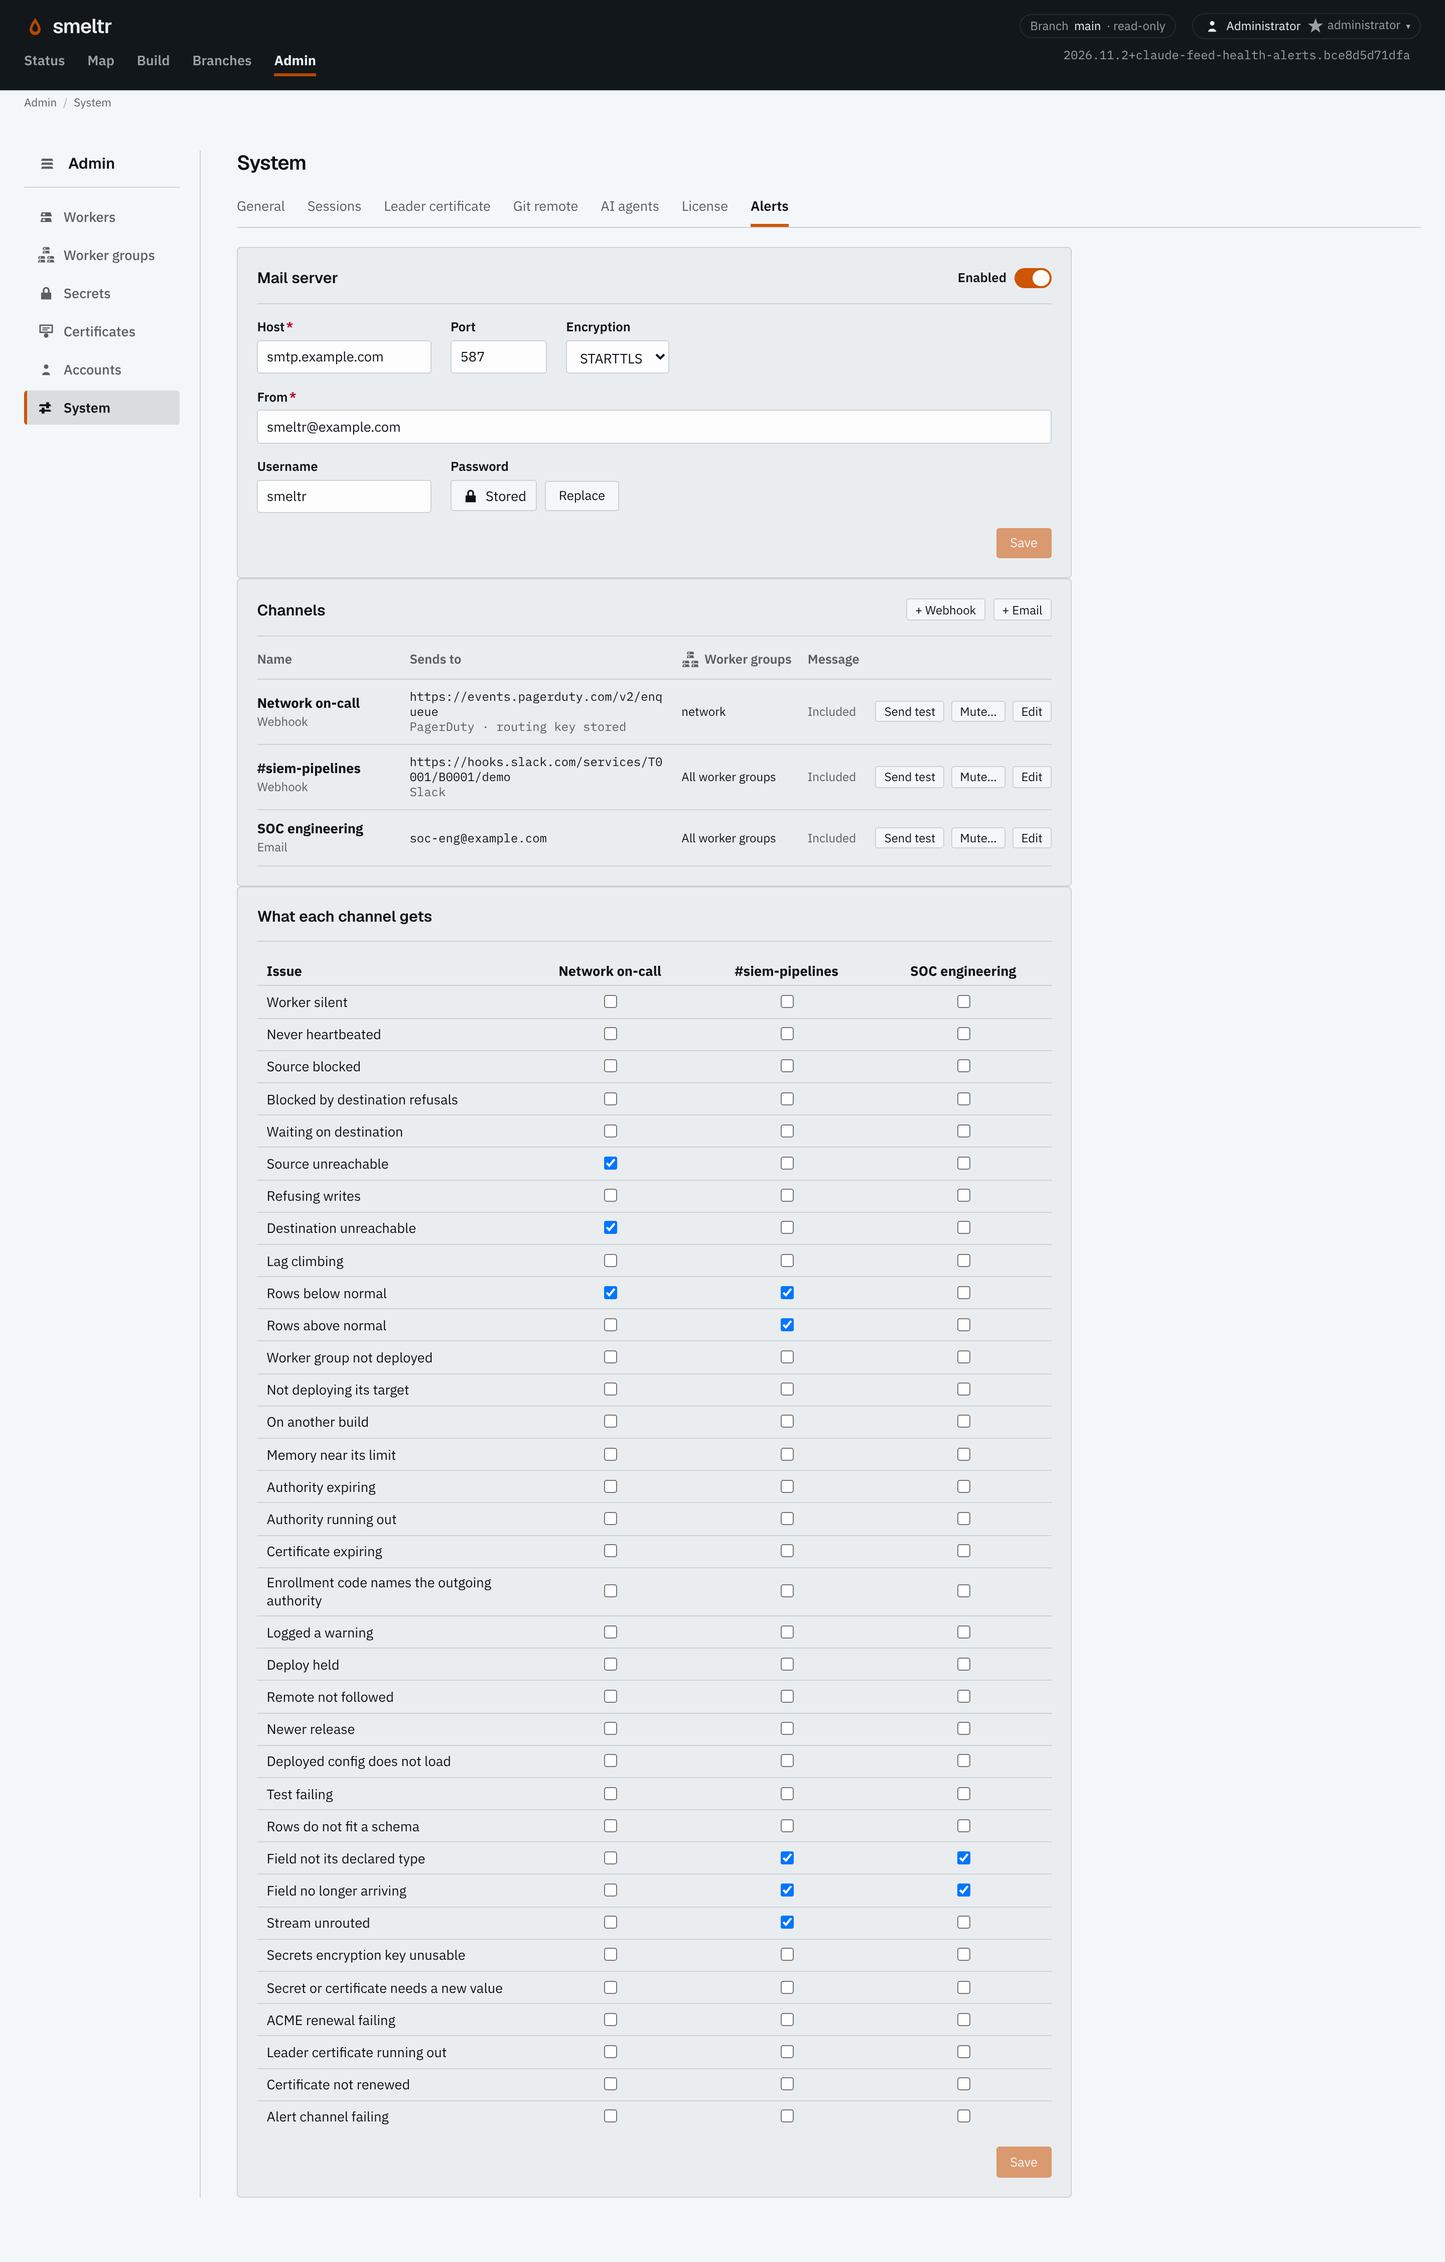
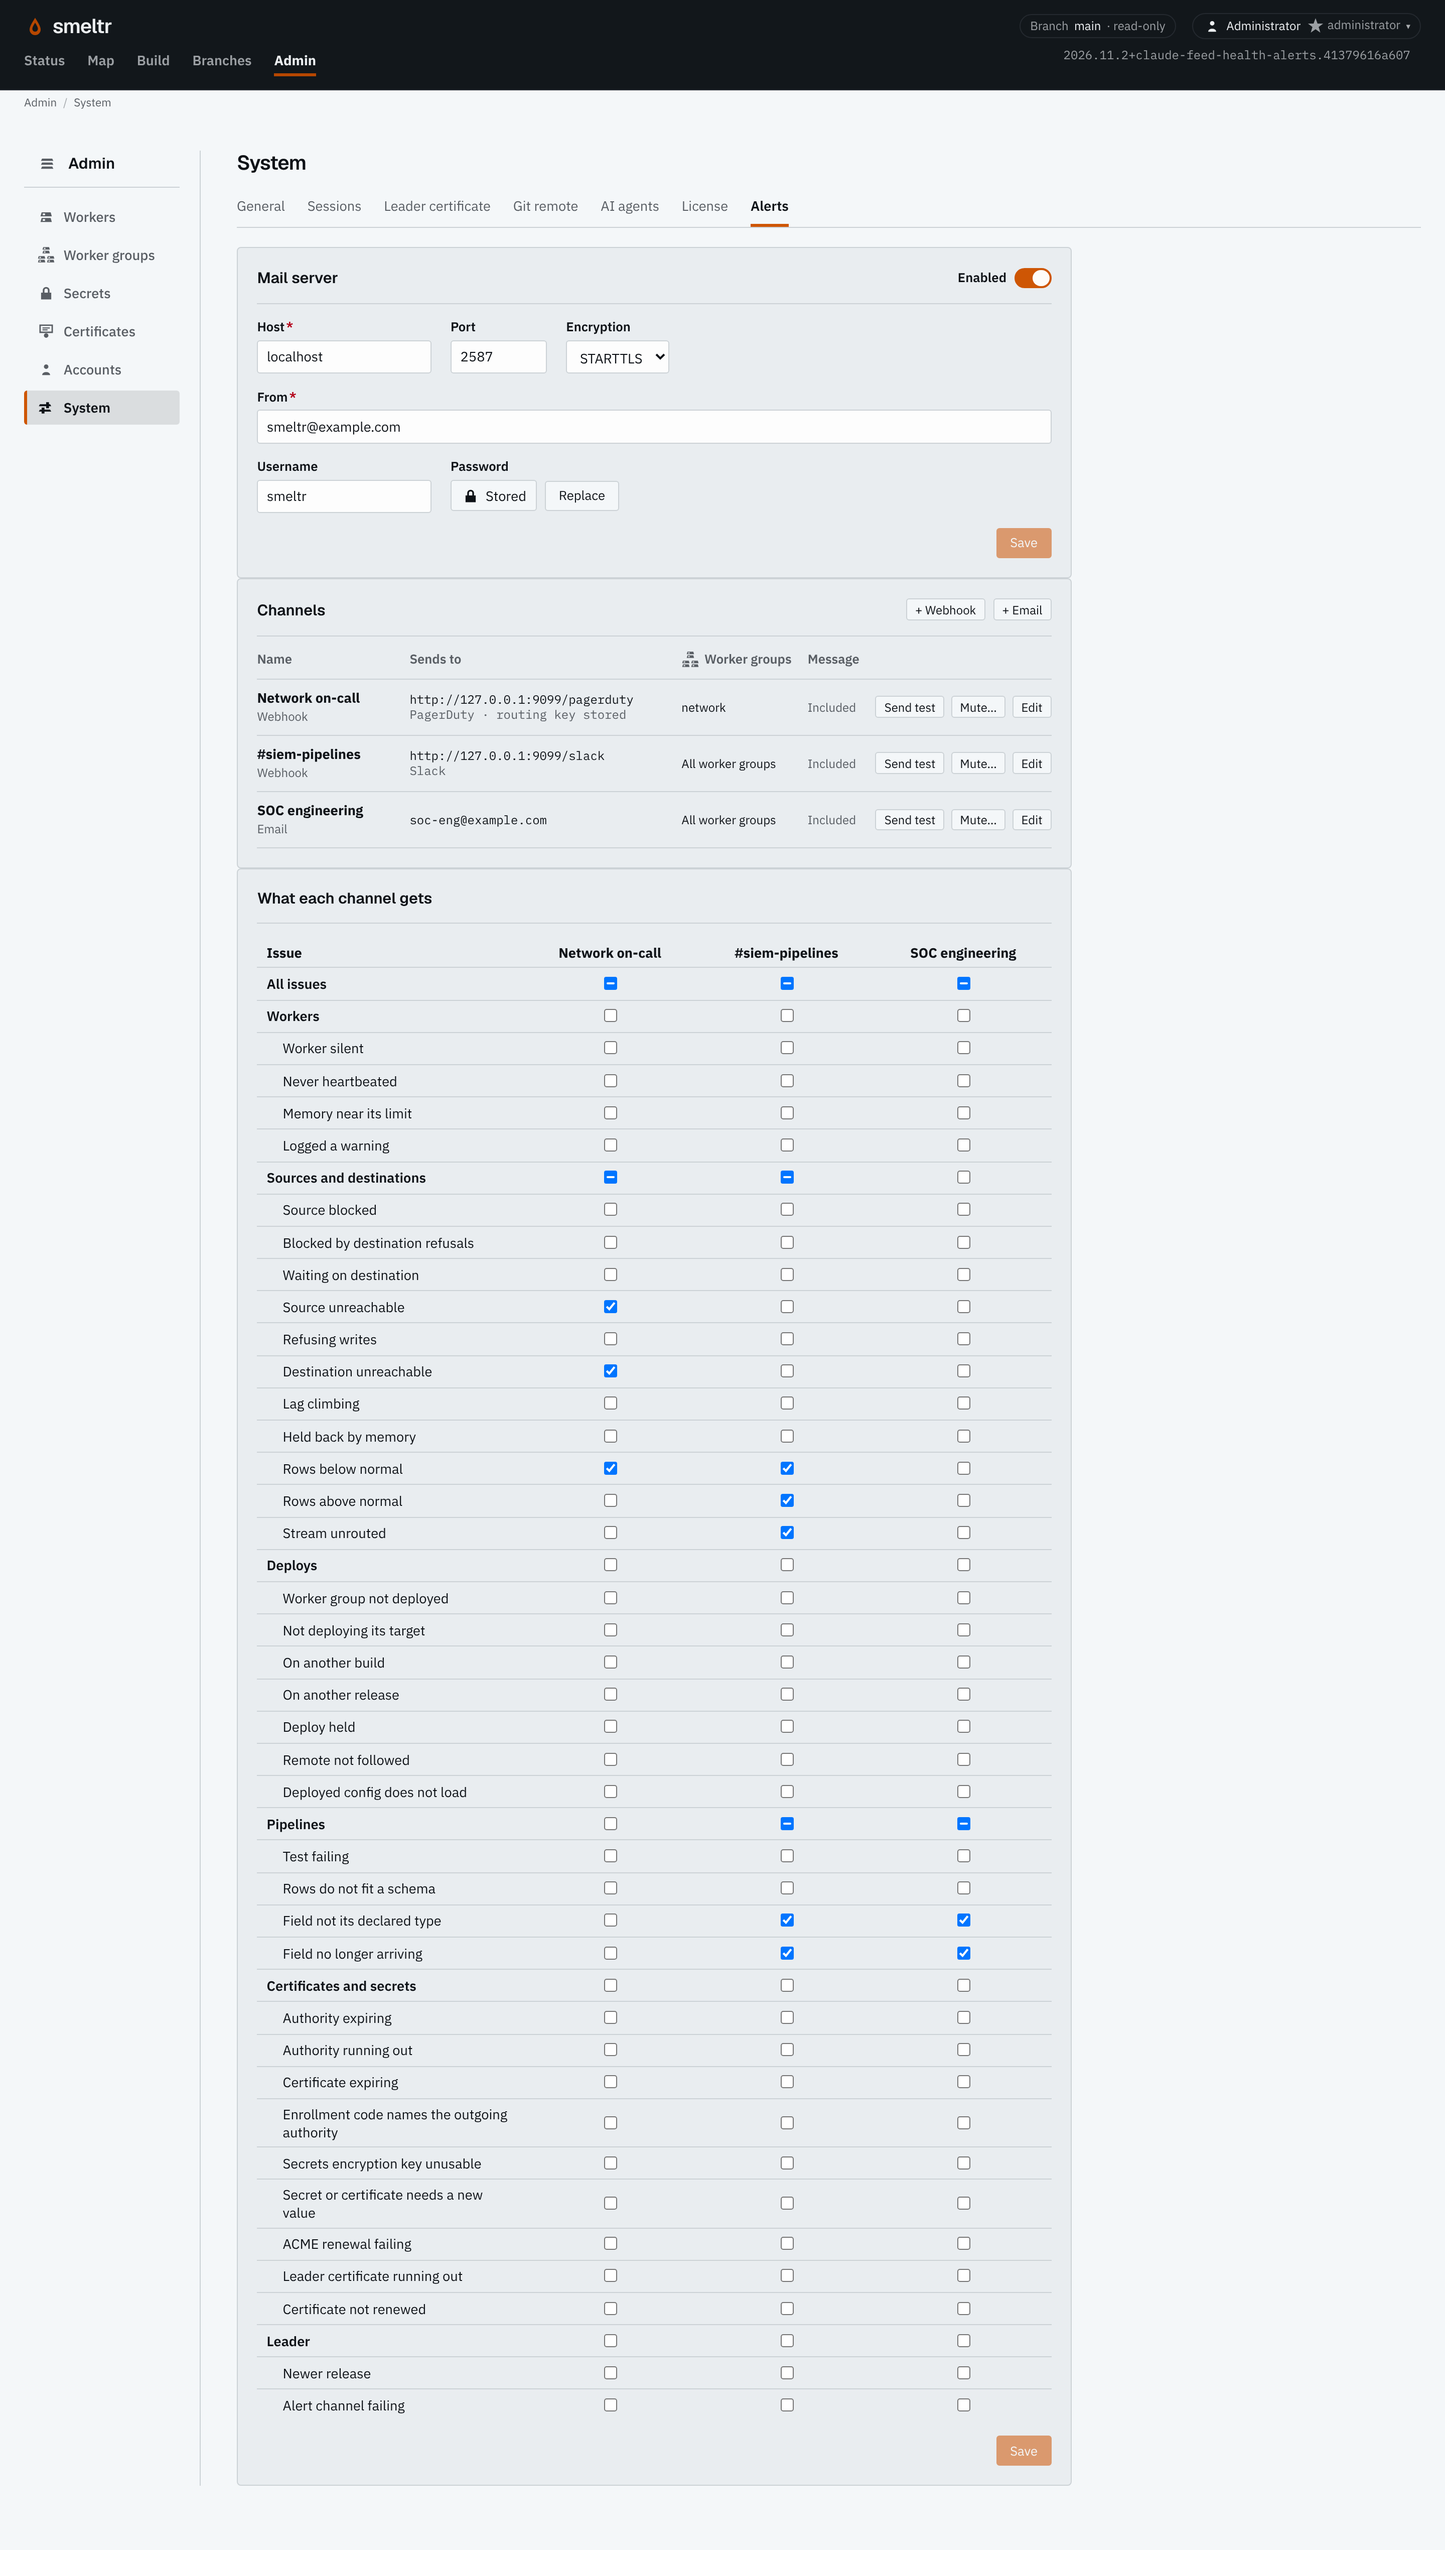
Website: Feed health's alerts shots from the staged demo
The Alerts page and the network on-call's dialog are now the demo's own channels,
sending to its receiver, with the issue table in its sections.

Claude-Session: https://claude.ai/code/session_016X7h2RhLvp1HvfZozgwZZV

diff --git a/website/src/routes/feed-health/+page.svelte b/website/src/routes/feed-health/+page.svelte
@@ -85,8 +85,8 @@
     </p>
     <ProductScreenshot
       source="feed-health-alerts"
-      height={4506}
-      crop={{ x: 472, y: 1152, width: 1664, height: 594 }}
+      height={5080}
+      crop={{ x: 472, y: 1152, width: 1664, height: 578 }}
       alt="Admin, System, Alerts: three channels. Network on-call is a PagerDuty webhook for the network worker group, #siem-pipelines a Slack webhook for every worker group, and SOC engineering an email to soc-eng@example.com."
       caption="PagerDuty pages the network on-call, Slack tells the pipeline team, and email reaches SOC engineering."
     />
@@ -96,9 +96,9 @@
     </p>
     <ProductScreenshot
       source="feed-health-alerts"
-      height={4506}
-      crop={{ x: 472, y: 1766, width: 1664, height: 914 }}
-      alt="What each channel gets: a row for each kind of issue and a column for each channel. Network on-call takes Source unreachable, Destination unreachable and Rows below normal; #siem-pipelines takes Rows below normal and Rows above normal."
+      height={5080}
+      crop={{ x: 472, y: 1731, width: 1664, height: 1357 }}
+      alt="What each channel gets: a row for each kind of issue, in sections, and a column for each channel. Network on-call takes Source unreachable, Destination unreachable and Rows below normal; #siem-pipelines takes Rows below normal, Rows above normal and Stream unrouted."
       caption="A row for each kind of issue, a column for each channel."
     />
     <p>
@@ -111,7 +111,7 @@
       source="feed-health-alert-channel"
       height={1800}
       crop={{ x: 992, y: 390, width: 896, height: 1020 }}
-      alt="Editing the Network on-call channel: format PagerDuty, URL https://events.pagerduty.com/v2/enqueue, routing key stored, worker groups only network, message included."
+      alt="Editing the Network on-call channel: format PagerDuty, URL http://127.0.0.1:9099/pagerduty, the demo's receiver, routing key stored, worker groups only network, message included."
       caption="The network on-call channel pages through PagerDuty, for the network worker group only."
     />
     <p><a href="/docs/operations">Operate a fleet →</a></p>
